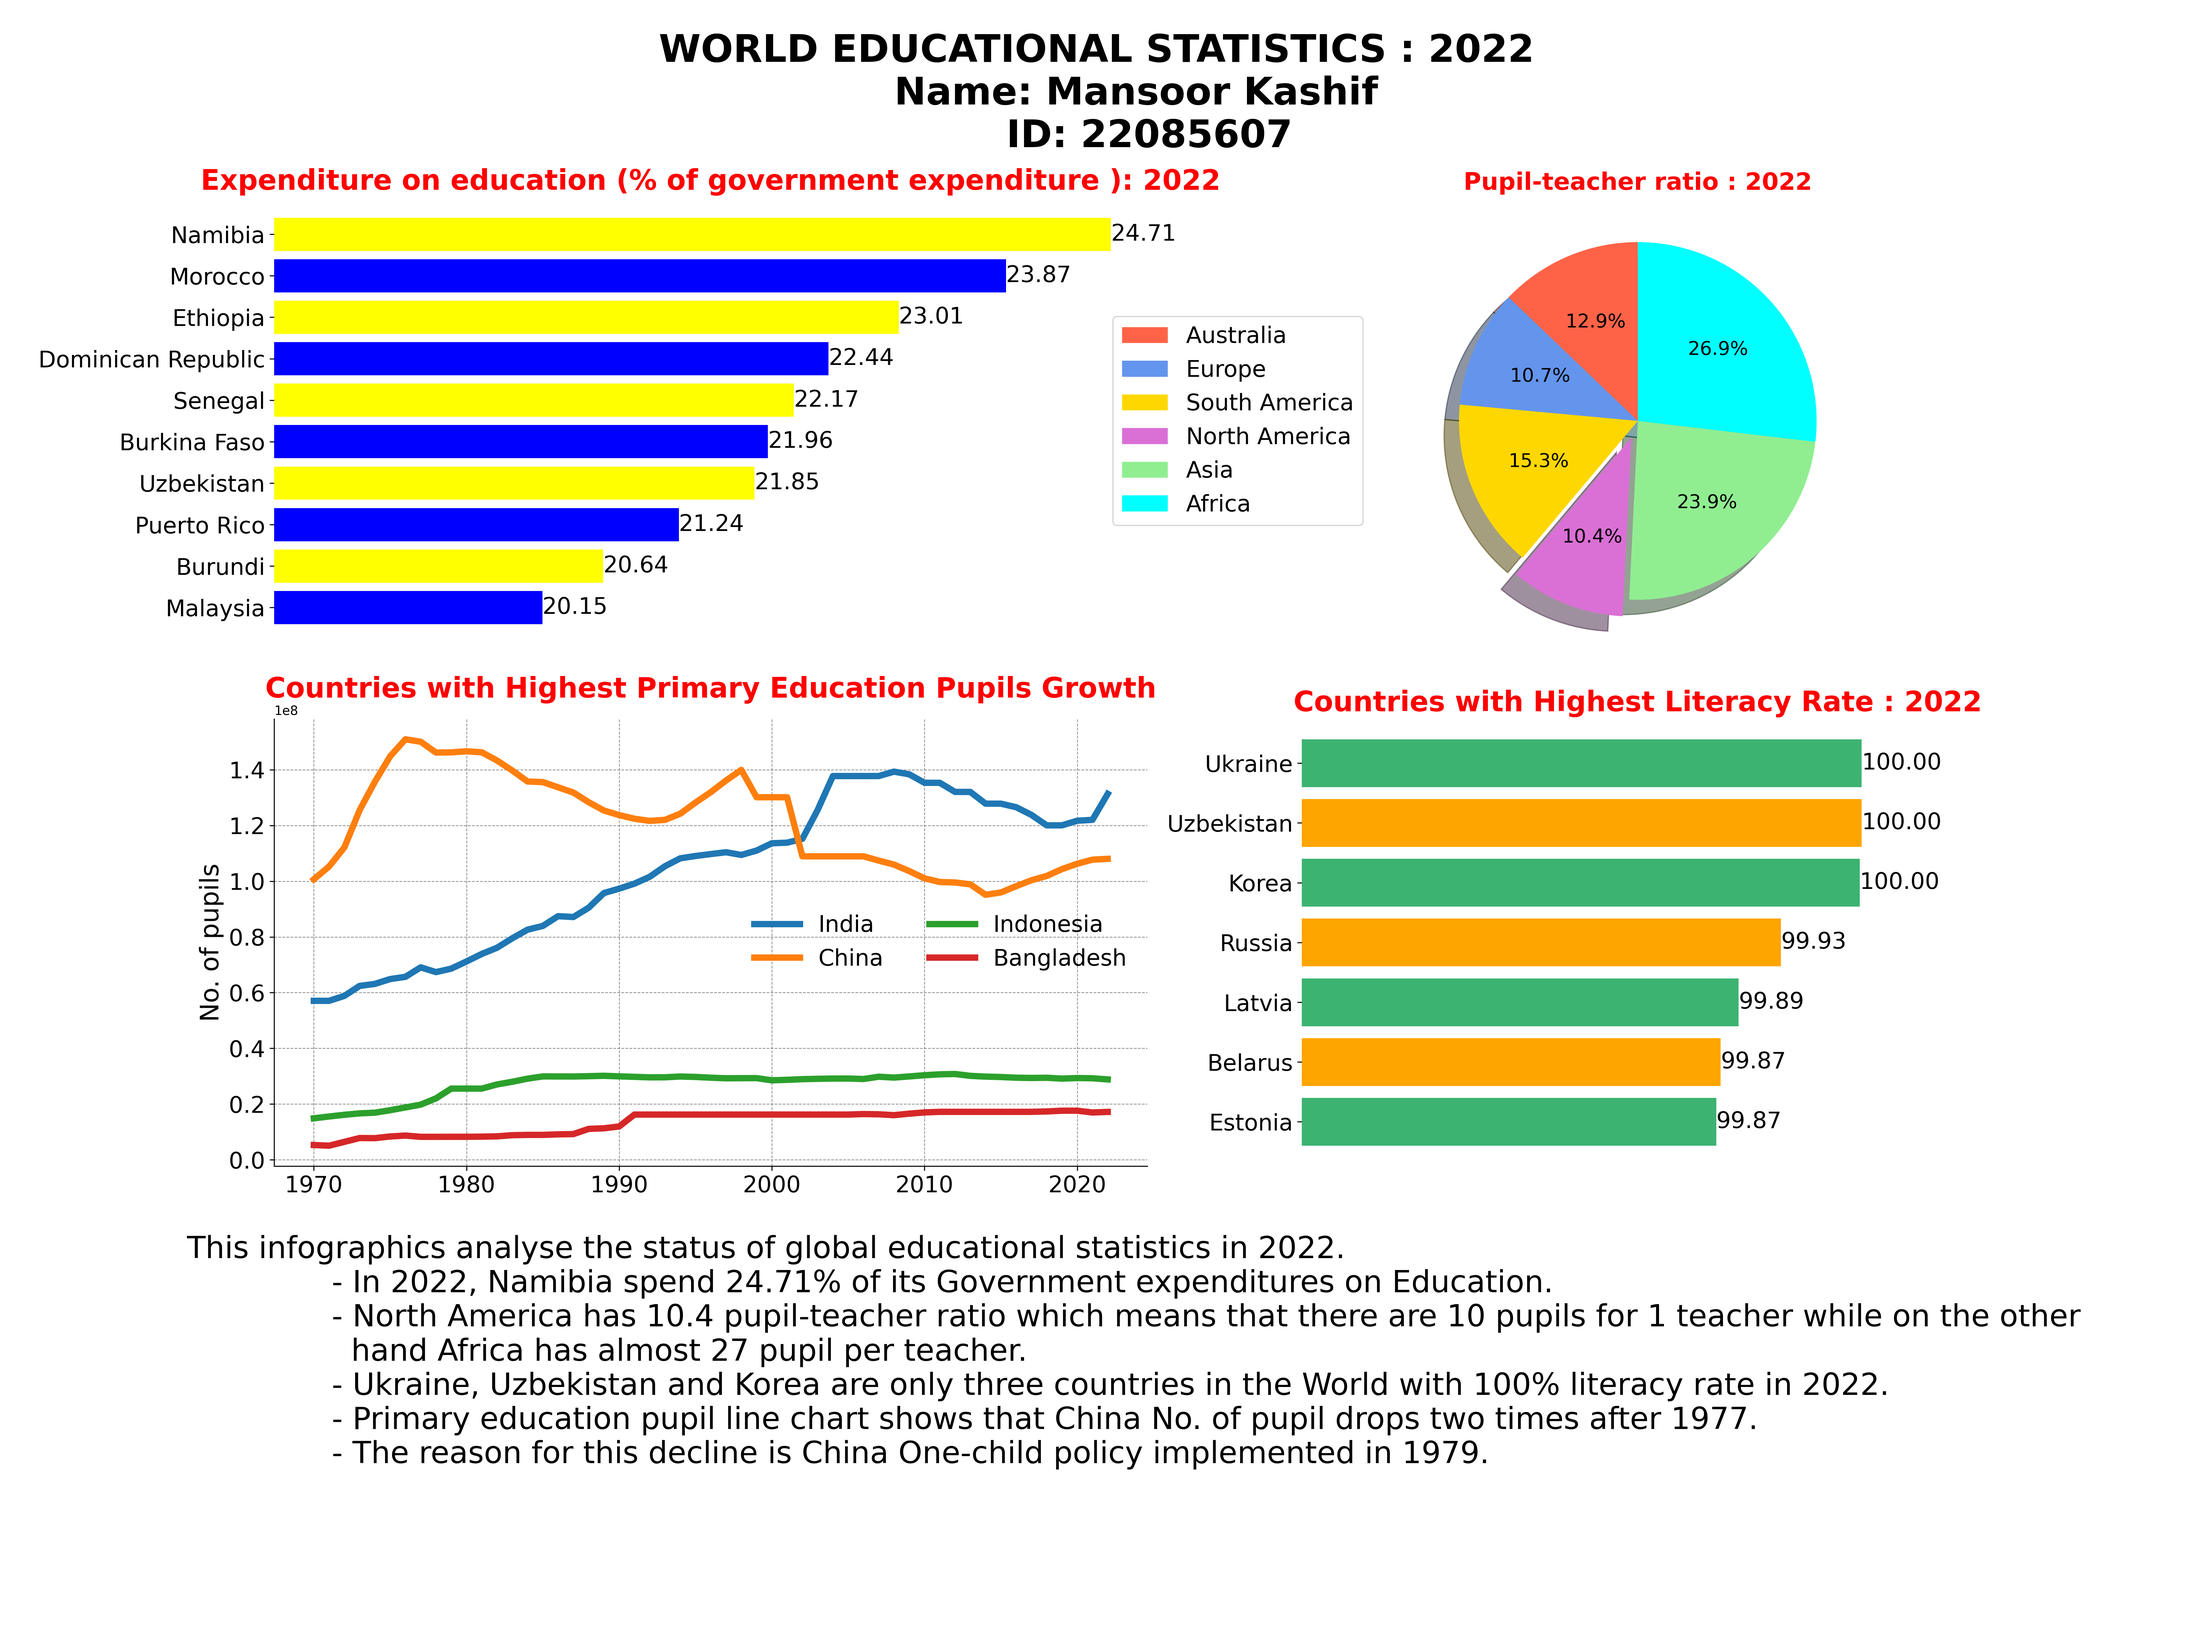
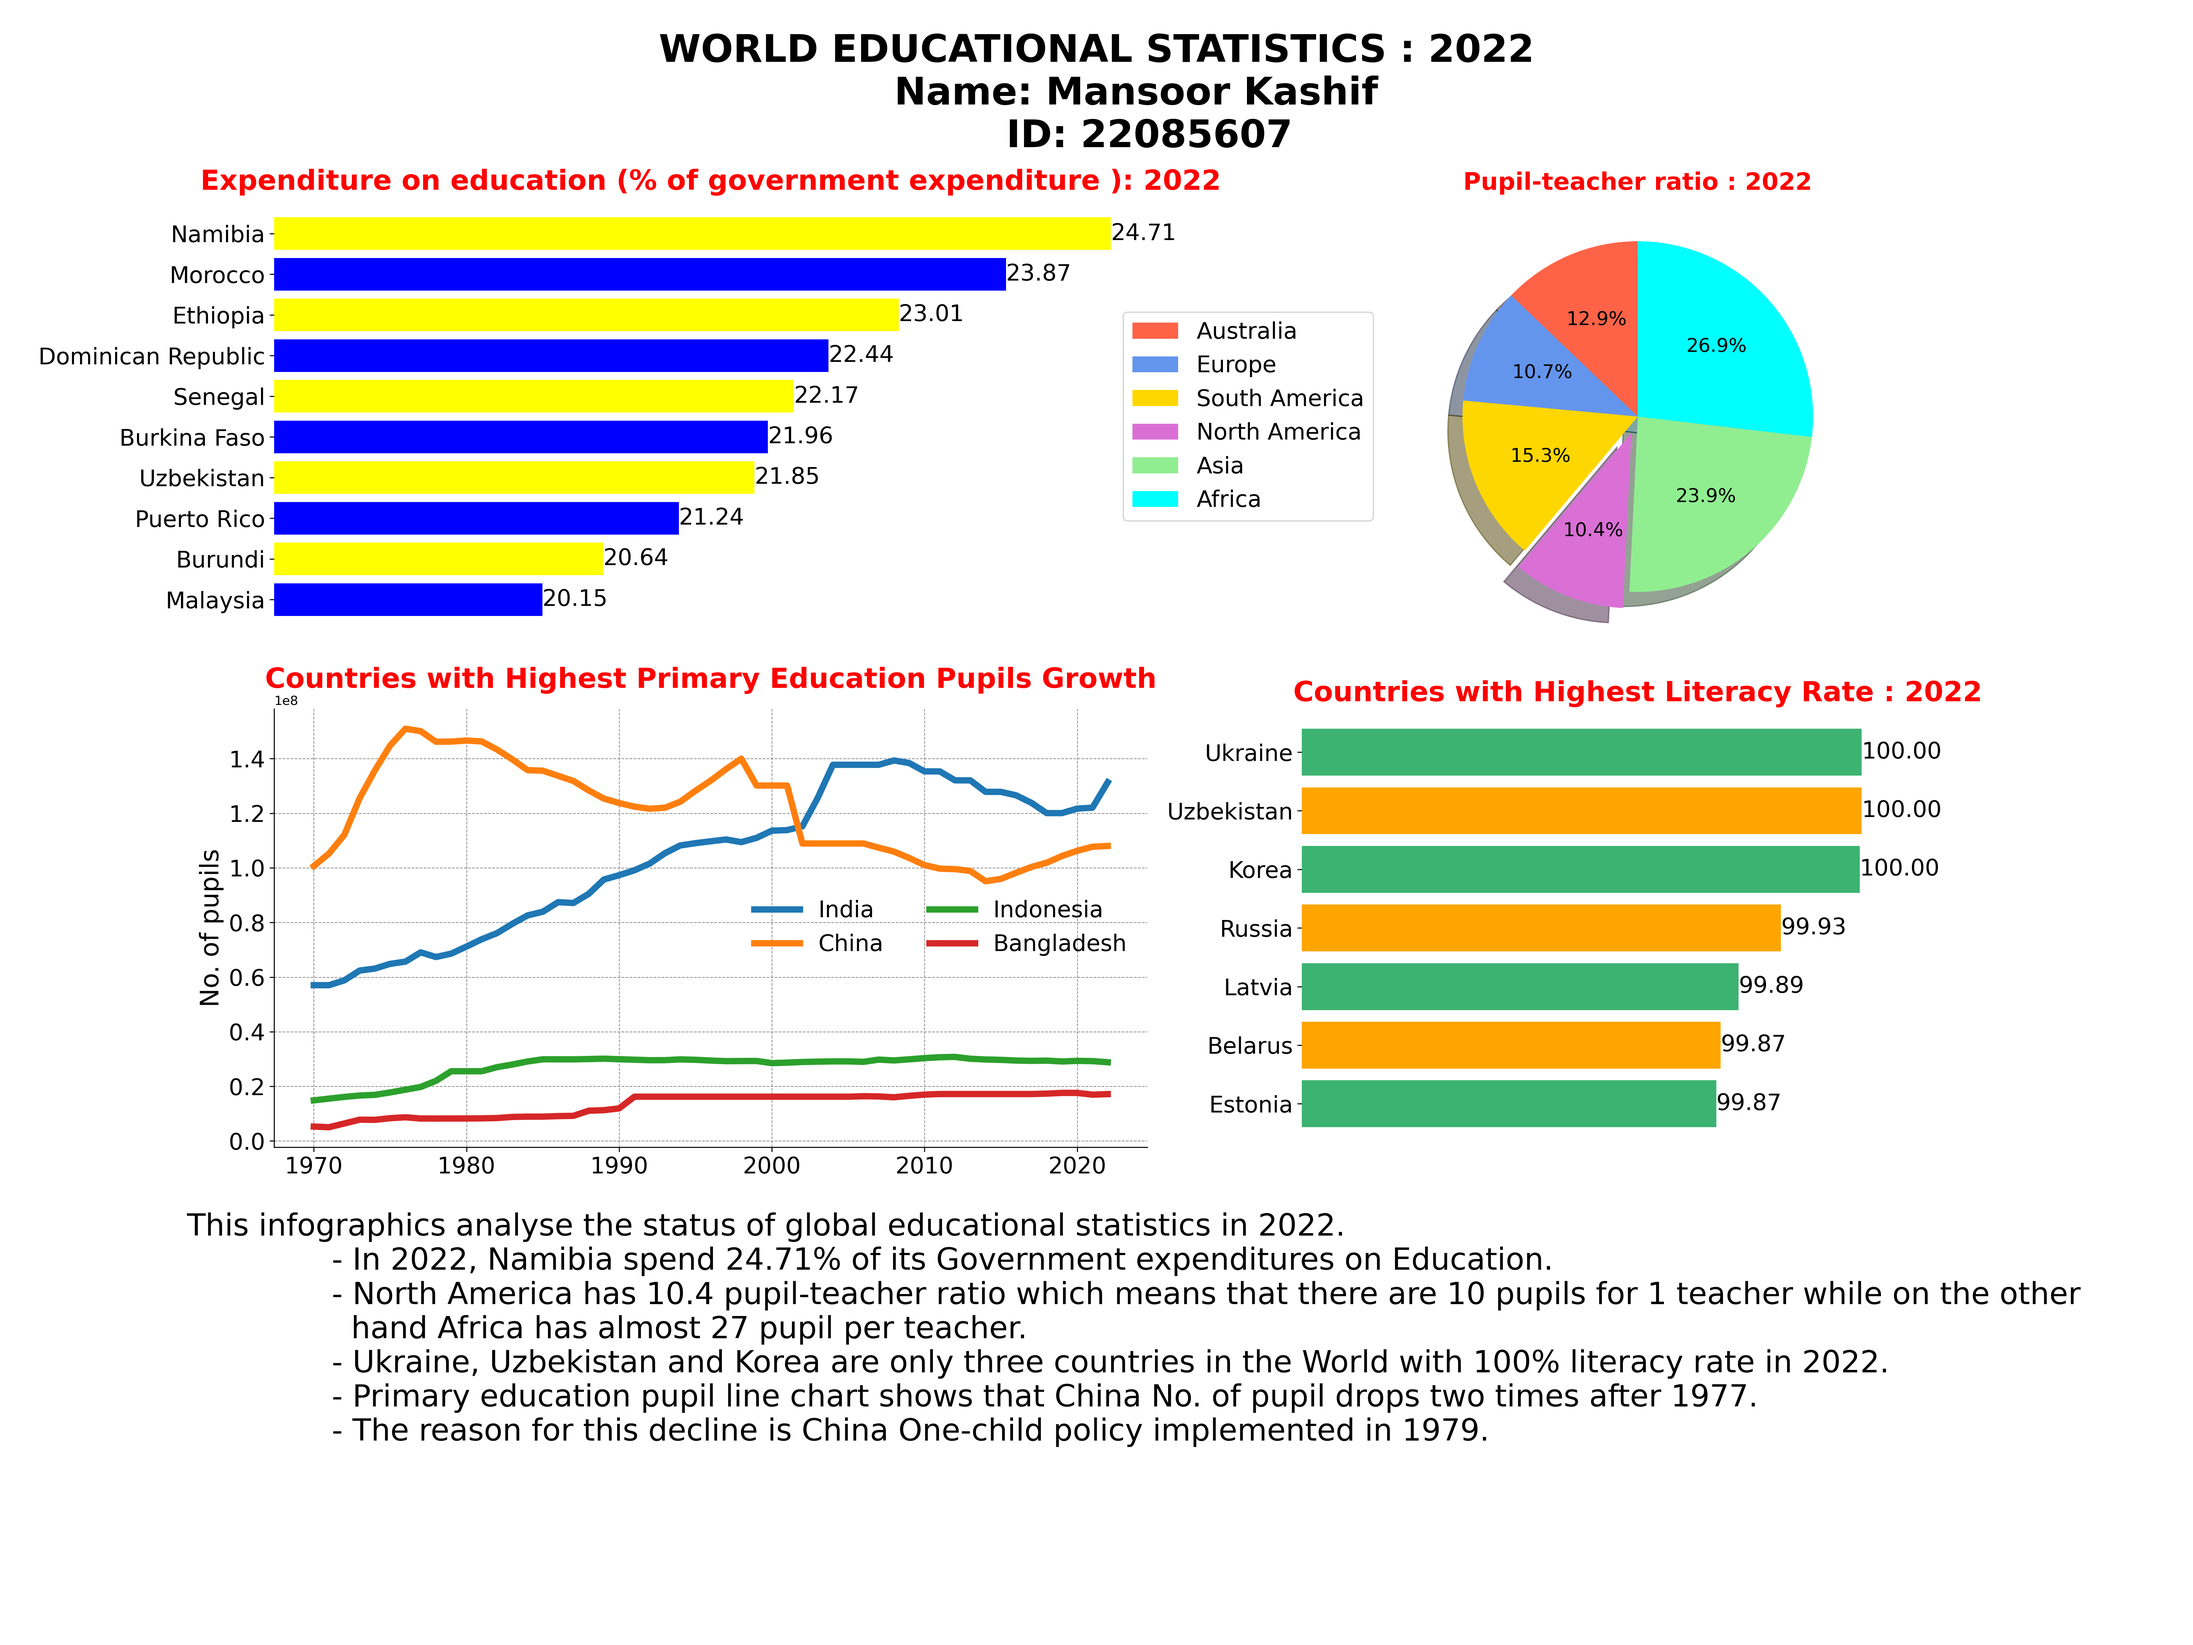
final

Changed region(s): [[0.0625, 0.1556, 0.9375, 0.9022], [0.5, 0.1867, 0.625, 0.3111]]

diff --git a/2085607.py b/2085607.py
@@ -1,0 +1,131 @@
+import numpy as np
+import pandas as pd
+import matplotlib.pyplot as plt
+import seaborn as sns
+
+#reading data file
+data = pd.read_csv('data.csv', na_values=[".."], index_col=[
+                   'Country Name', 'Series Name'])
+
+
+#extracting the data for top 10 countries with max expenditure on education for 2022
+df = data['2022']
+df1 = df.reset_index('Series Name')
+plot1 = df1[(df1['Series Name'] ==
+             'Government expenditure on education, total (% of government expenditure)')]
+plot1 = plot1.sort_values(by='2022', ascending=False).head(10)
+plot1 = plot1.sort_values(by='2022')
+
+
+#extracting the pupil- teacher ratio for different contients for 2022
+selected_countries = ['Europe', 'South America',
+                      'North America', 'Asia', 'Africa', 'Australia']
+df2 = data.ffill( axis=1)
+df2 = df2['2022']
+df2 = df2.reset_index()
+df2 = df2[df2['Country Name'].isin(selected_countries)]
+plot2 = df2.set_index('Country Name')
+plot2 = plot2[(plot2['Series Name'] == 'Pupil-teacher ratio, primary')]
+
+
+#extracting the top 4 contries data for no. of primary pupil
+df3 = data.reset_index('Series Name')
+plot3 = df3[(df3['Series Name'] == 'Primary education, pupils')]
+plot3 = plot3.sort_values(by='2022', ascending=False).head(4)
+plot3 = plot3.dropna(axis='columns', how='all')
+plot3 = plot3.bfill( axis=1)
+
+
+#extracting the data for top 7 countries with max. litracy rate for 2022
+df4 = data.ffill(axis=1)
+df4 = df4['2022']
+df4 = df4.reset_index('Series Name')
+plot4 = df4[(df4['Series Name'] ==
+             'Literacy rate, adult total (% of people ages 15 and above)')]
+plot4 = plot4.sort_values(by='2022', ascending=False).head(7)
+plot4 = plot4.sort_values(by='2022')
+
+
+#Create a figure and subplots
+fig, ax = plt.subplots(3, 2, figsize=(24, 18), gridspec_kw={
+                       'width_ratios': [1.3, 1], 'height_ratios': [1, 1, 0.5]})
+fig.suptitle('''WORLD EDUCATIONAL STATISTICS : 2022
+      Name: Mansoor Kashif
+        ID: 22085607''',
+             fontsize=30, fontweight='bold', ha='center', va='top')
+
+
+# bar plot for top 10 countries with max ependiture on education in 2022
+ax[0, 0].barh(plot1.index, plot1['2022'], color=['blue', 'yellow'])
+ax[0, 0].set_title('Expenditure on education (% of government expenditure ): 2022',
+                   fontsize=22, fontweight='bold', color='red')
+ax[0, 0].spines[['top', 'right', 'bottom', 'left']].set_visible(False)
+ax[0, 0].set_xlim(left=18, right=25)
+ax[0, 0].tick_params(labelsize=18)
+ax[0, 0].set_xticks([])
+for i, v in enumerate(plot1.values[:, 1]):
+    ax[0, 0].text(v, i, '{:.2f}'.format(v), ha='left', va='center',
+                  fontsize=18)
+
+
+# pie plot for pupil=teacger ratio for different continent in 2022
+wedges, _, autotexts = ax[0, 1].pie(plot2['2022'], explode=(0, 0, 0, 0.1, 0, 0), colors=[
+                                    'tomato', 'cornflowerblue', 'gold', 'orchid', 'lightgreen', 'cyan'], autopct='%1.1f%%', shadow=True, startangle=90)
+ax[0, 1].legend(wedges, plot2.index, loc="center left",
+                bbox_to_anchor=(-0.7, 0.5), fontsize=18)
+ax[0, 1].set_title('Pupil-teacher ratio : 2022',
+                   fontsize=19, fontweight='bold', color='red')
+# Set label font size
+for autotext in autotexts:
+    autotext.set_fontsize(15)
+
+
+# line plot for top 4 countries with max growth in no of pupils
+ax[1, 0].plot(plot3.iloc[:, 1:].T, linewidth=5)
+years = plot3.T.index[1::10]  # Select every 10th year
+ax[1, 0].set_xticks(years)
+ax[1, 0].set_xticklabels(years)
+ax[1, 0].set_title('Countries with Highest Primary Education Pupils Growth',
+                   fontsize=22, fontweight='bold', color='red')
+ax[1, 0].spines[['top', 'right']].set_visible(False)
+ax[1, 0].tick_params(labelsize=18)
+ax[1, 0].set_ylabel('No. of pupils', fontsize=20)
+ax[1, 0].grid(True, linestyle='--', linewidth=0.6, color='gray', alpha=0.9)
+ax[1, 0].legend(labels=plot3.index, loc='center right', frameon=False,
+                ncols=2, fontsize=18)
+
+
+# bar plot for top 7 countries with highest literacy rate in 2022
+ax[1, 1].barh(plot4.index, plot4['2022'], color=['mediumseagreen', 'orange'])
+# Setting and title
+ax[1, 1].set_title('Countries with Highest Literacy Rate : 2022',
+                   fontsize=22, fontweight='bold', color='red')
+ax[1, 1].spines[['top', 'right', 'bottom', 'left']].set_visible(False)
+ax[1, 1].set_xlim(left=99.5, right=100.1)
+ax[1, 1].tick_params(labelsize=18)
+ax[1, 1].set_xticks([])
+for i, v in enumerate(plot4.values[:, 1]):
+    ax[1, 1].text(v, i, '{:.2f}'.format(v), ha='left', va='center',
+                  fontsize=18)
+
+
+# Adding explaination text visualization
+text = """This infographics analyse the status of global educational statistics in 2022. 
+               - In 2022, Namibia spend 24.71% of its Government expenditures on Education.
+               - North America has 10.4 pupil-teacher ratio which means that there are 10 pupils for 1 teacher while on the other
+                 hand Africa has almost 27 pupil per teacher.
+               - Ukraine, Uzbekistan and Korea are only three countries in the World with 100% literacy rate in 2022.
+               - Primary education pupil line chart shows that China No. of pupil drops two times after 1977.
+               - The reason for this decline is China One-child policy implemented in 1979."""
+combined_subplot = ax[2, :].flatten()
+combined_subplot[0].text(-0.1, 0.5, text, ha='left',
+                         va='center', fontsize=24, color='black')
+for ax in combined_subplot:
+    ax.tick_params(length=0, width=0)
+    ax.set_facecolor('none')
+    ax.set_xticklabels([])
+    ax.set_yticklabels([])
+    ax.spines[['top', 'bottom', 'left', 'right']].set_visible(False)
+
+
+plt.savefig('2085607.png', dpi=300)
